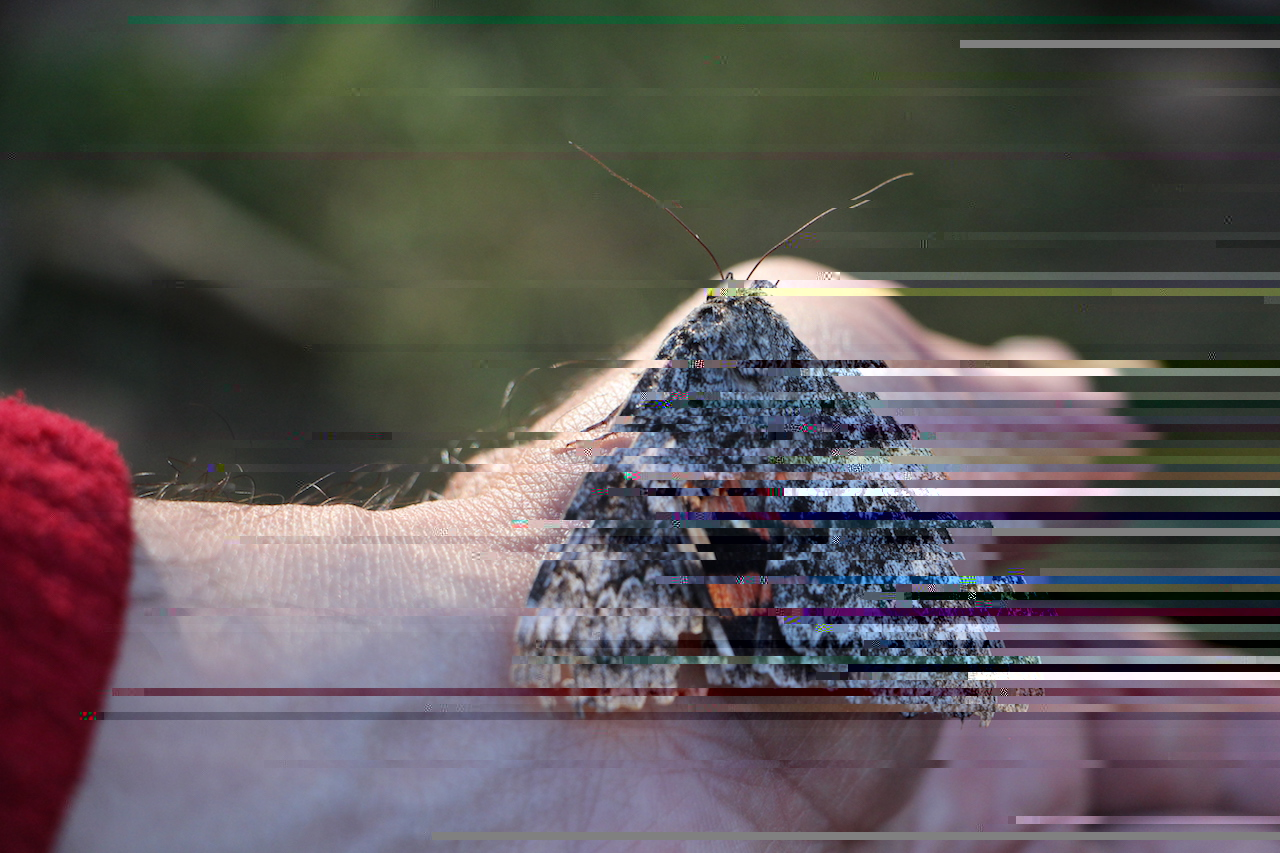
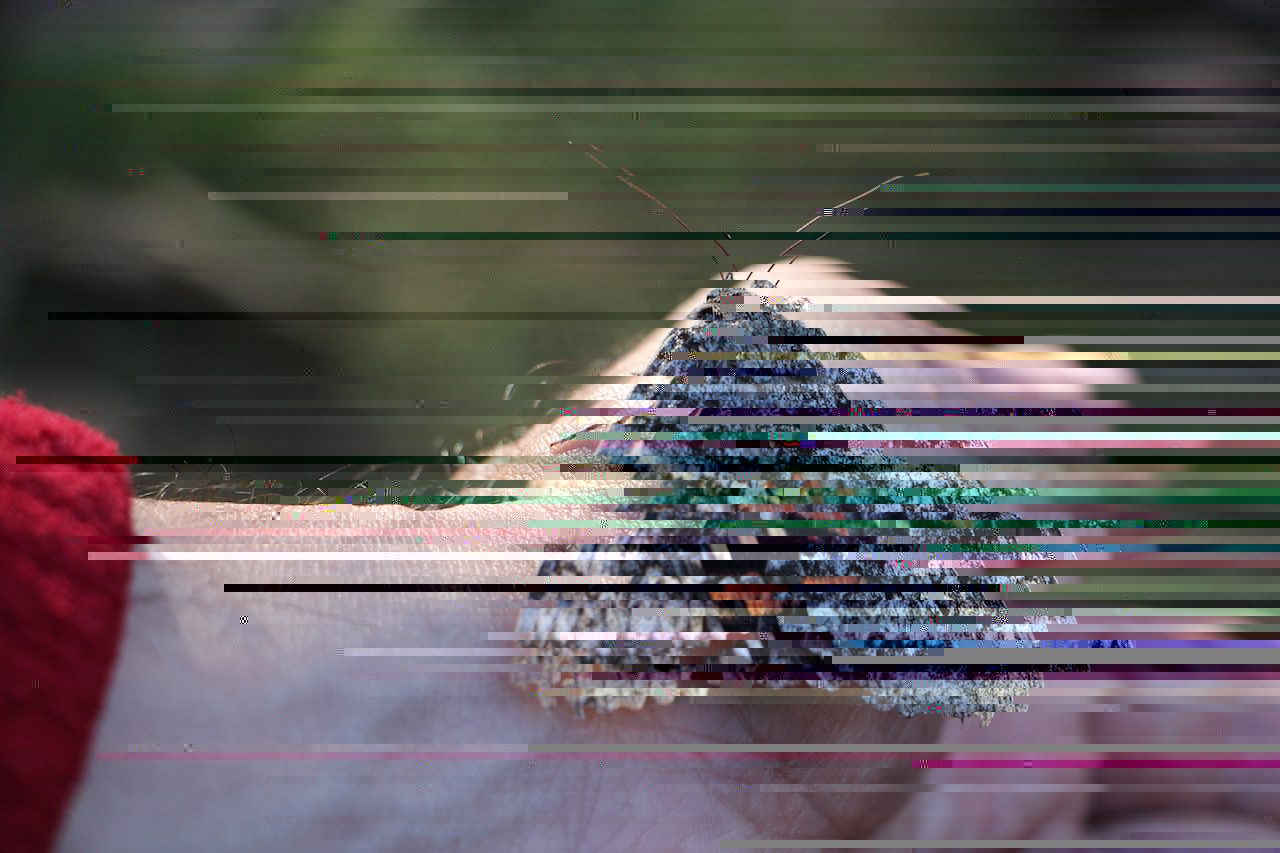
Recursive rewrite
Number of random trials massively decreased from O(N) to O(NP), where N is the total number of bytes and P is the probability of a single-bit error, which in most use cases is almost zero.

diff --git a/src/Corruptor.java b/src/Corruptor.java
@@ -8,9 +8,9 @@ import java.util.Random;
 public class Corruptor {
     private static final int BUFFER_SIZE = 4096; // 4KB
 
-    private static int[] globalBitErrorCounter = {0, 0, 0, 0, 0, 0, 0, 0, 0};
+    private int[] globalBitErrorCounter = {0, 0, 0, 0, 0, 0, 0, 0, 0};
 
-    private static int[] globalChosenBitCounter = {0, 0, 0, 0, 0, 0, 0, 0};
+    private int[] globalChosenBitCounter = {0, 0, 0, 0, 0, 0, 0, 0};
 
     private Random random;
 
@@ -20,8 +20,21 @@ public class Corruptor {
     }
 
     private double nonZeroSuccessInTrials(int trials, double probability) {
-        // fancy statistics stuff so that we can save some time by applying the randomness at the byte
-        // level rather than the bit level, all while retaining the same random distribution.
+        // this calculates the probability of no errors occurring in a sequence of <trial> bits each
+        // with an independent <probability> of error,
+
+        // in cases where the probability of an error is very low, we can use this test to batch together
+        // groups of bits rather than going one by one, vastly reducing processing time.
+
+        // we compare this probability to a random variable situated between 0 and 1.
+        // the test succeeds when the random variable is smaller than the calculated probability.
+
+        // if the test succeeds, we must corrupt at least one bit in the group.
+        // for the remaining bits, we must recursively apply this test
+
+        // if the test fails, no bit will be corrupted, and we can move on.
+
+        // below is the mathematical derivation of this function
 
         // B(success, trials) is a bernoulli random process describing a set of independent trials
         // B(success != 0, trials) = 1 - B(success = 0, trials)
@@ -31,6 +44,7 @@ public class Corruptor {
         return 1.0 - Math.pow(1.0 - probability, trials);
     }
 
+    /*
     public byte corruptByte(byte in, double probability) {
         // corrupt a byte
         // the set of bits we can choose to corrupt
@@ -65,7 +79,7 @@ public class Corruptor {
         return in;
     }
 
-    public byte[] corruptByteBuffer(byte[] in, double probability) {
+    public byte[] corruptBuffer(byte[] in, double probability) {
         // corrupt a buffer of bytes
         byte[] out = new byte[in.length];
         for(int i = 0; i < out.length; i++) {
@@ -85,7 +99,143 @@ public class Corruptor {
 
             while (inputStream.read(buffer) != -1) {
                 // apply buffer corruption over file
-                buffer = corruptByteBuffer(buffer, probability);
+                buffer = corruptBuffer(buffer, probability);
+                outputStream.write(buffer);
+            }
+            inputStream.close();
+            outputStream.close();
+
+        } catch (IOException ex) {
+            ex.printStackTrace();
+            System.exit(1);
+        }
+    }
+    */
+
+    private long bufferCounter = 0;
+
+    private byte[] buffer = new byte[BUFFER_SIZE];
+
+    private long[] globalChosenByteCounter = new long[BUFFER_SIZE];
+
+    private String pad(int length) {
+        String out = "";
+        for(int i = 0; i < length; i++) {
+            out = out + "│ ";
+        }
+        return out;
+    }
+
+    public void corruptBufferAt(int index, double probability) {
+        // this corrupts at least one bit at a given internal buffer location and iteratively attempts to
+        // corrupt further bits given a probability
+        globalChosenByteCounter[index]++;
+        // given a low probability, the vast majority of bytes will only have single bit errors
+        // these don't require a structure for making sure we don't corrupt the same bit twice
+        // we can check in advance if we need to corrupt an extra bit and only declare the structure
+        // if we actually need it
+        if(!(random.nextDouble() < nonZeroSuccessInTrials(7, probability))) {
+            // corrupt just one bit, simple
+            // choose a bit to corrupt
+            int chosenBit = random.nextInt(8);
+            // corrupt the byte by inverting the chosen bit
+            buffer[index] = (byte) (buffer[index] ^ (1 << chosenBit));
+            // increment error counters
+            globalChosenBitCounter[chosenBit]++;
+            globalBitErrorCounter[1]++;
+        } else {
+            // corrupt at least two bits, must setup some stuff
+            // the set of bits we can choose to corrupt
+            int[] uncorruptedBits = {0, 1, 2, 3, 4, 5, 6, 7};
+            // the number of bits left to be chosen
+            int remainingBits = 8;
+            // the number of trials to corrupt individual bits
+            int trials = 8;
+            // the number of bits that must be corrupted at least
+            int mustCorrupt = 2;
+            // an error counter
+            int localBitErrorCounter = 0;
+
+            while(trials > 0 && (mustCorrupt-- > 0 || random.nextDouble() < nonZeroSuccessInTrials(trials, probability))) {
+                // choose a bit to corrupt within those that remain
+                int chosenBitIndex = random.nextInt(remainingBits);
+                int chosenBit = uncorruptedBits[chosenBitIndex];
+                // remove that bit from the remaining choices
+                // (swap the last available bit with the one we chose and decrease the number of remaining bits)
+                uncorruptedBits[chosenBitIndex] = uncorruptedBits[--remainingBits];
+                // corrupt the byte by inverting the chosen bit
+                buffer[index] = (byte) (buffer[index] ^ (1 << chosenBit));
+                // decrement the number of trials remaining
+                trials--;
+                // increment error counter
+                localBitErrorCounter++;
+                globalChosenBitCounter[chosenBit]++;
+            }
+            // increment error counter according to the number of bit errors in that byte
+            globalBitErrorCounter[localBitErrorCounter]++;
+        }
+    }
+
+    public void corruptBufferRange(int from, int to, double probability) {
+        // this corrupts the internal buffer by recursively splitting it at random points when the corruption trial succeeds,
+        // similarly to quicksort.
+        if(from < to && random.nextDouble() < nonZeroSuccessInTrials((to - from + 1) * 8, probability)) {
+            // at least one bit corrupted in range
+            int split = random.nextInt(to - from + 1) + from;
+            // choose a split point and corrupt at least a bit from that byte
+            corruptBufferAt(split, probability);
+            // recur on the remaining part of the range
+            if(split == from) {
+                // special case, split occurred at beginning of range;
+                corruptBufferRange(from + 1, to, probability);
+            } else if (split == to) {
+                // special case, split occurred at end of range
+                corruptBufferRange(from, to - 1, probability);
+            } else {
+                // general case, split occurred at middle of range
+                corruptBufferRange(from, split - 1, probability);
+                corruptBufferRange(split + 1, to, probability);
+            }
+        } else if(from == to && random.nextDouble() < nonZeroSuccessInTrials( 8, probability)) {
+            // range contains a single byte
+            corruptBufferAt(from, probability);
+        } else {
+            globalBitErrorCounter[0] += to - from + 1;
+        }
+    }
+
+    public void corruptBuffer(double probability, int division) {
+        // corrupts the internal buffer
+        int split = 0;
+        for(int i = 0; i < division; i++) {
+            int temp = split;
+            split += BUFFER_SIZE / division;
+            if(i == division - 1) {
+                corruptBufferRange(temp, BUFFER_SIZE - 1, probability);
+            } else {
+                corruptBufferRange(temp, split - 1, probability);
+            }
+        }
+        //corruptBufferRange(0, BUFFER_SIZE - 1, probability);
+    }
+
+    public void corruptFile(String inputFile, String outputFile, double probability, int division) {
+        // corrupt an entire file
+        for(int i = 0; i < globalChosenByteCounter.length; i++) {
+            globalChosenByteCounter[i] = 0;
+        }
+        for(int i = 0; i < globalChosenBitCounter.length; i++) {
+            globalChosenBitCounter[i] = 0;
+        }
+        try (
+                InputStream inputStream = new FileInputStream(inputFile);
+                OutputStream outputStream = new FileOutputStream(outputFile);
+        ) {
+            bufferCounter = 0;
+            while (inputStream.read(buffer) != -1) {
+                // apply buffer corruption over file
+                corruptBuffer(probability, division);
+                bufferCounter++;
                 outputStream.write(buffer);
             }
             inputStream.close();
@@ -101,9 +251,17 @@ public class Corruptor {
         // print some stats about the way errors are distributed within bytes
         System.out.println("____________________________________");
         System.out.println("number of bit errors in same byte");
+        long totalBitErrors = 0;
+        long totalBits = 0;
         for(int i = 0; i < globalBitErrorCounter.length; i++) {
             System.out.println(i + "-bit errors: " + globalBitErrorCounter[i]);
+            totalBitErrors += i * globalBitErrorCounter[i];
+            totalBits += 8 * globalBitErrorCounter[i];
         }
+        double probability = totalBitErrors / (1.0 * totalBits);
+        System.out.println("____________________________________");
+        System.out.println("total bits corrupted: " + totalBitErrors + " of " + totalBits);
+        System.out.println("measured probability: " + probability);
     }
 
     public void printChosenBits() {
@@ -115,25 +273,13 @@ public class Corruptor {
         }
     }
 
-    public double entropyByteBuffer(byte[] in) {
-        // calculate a buffer's entropy.
-        // can't be used to calculate a file's entropy by splitting it into buffers because entropy isn't linear
-        int[] byteOccurence = new int[256];
-        for(int i = 0; i < byteOccurence.length; i++) {
-            byteOccurence[i] = 0;
+    public void printChosenBytes() {
+        // print some stats about which bytes were chosen to be corrupted
+        System.out.println("____________________________________");
+        System.out.println("byte chosen for error");
+        for(int i = 0; i < globalChosenByteCounter.length; i++) {
+            System.out.println("byte-" + i + " errors: " + globalChosenByteCounter[i]);
         }
-        for(int i = 0; i < in.length; i++) {
-            byteOccurence[in[i] + 128]++;
-        }
-        double entropy = 0;
-        for(int i = 0; i < byteOccurence.length; i++) {
-            if(byteOccurence[i] != 0) {
-                // avoid log(0)
-                double probability = (byteOccurence[i] * 1.0) / (in.length * 1.0);
-                entropy -= probability * Math.log(probability);
-            }
-        }
-        return entropy;
     }
 
     public double entropyFile(String inputFile) {
@@ -141,7 +287,6 @@ public class Corruptor {
         try (
                 InputStream inputStream = new FileInputStream(inputFile);
         ) {
-            byte[] buffer = new byte[BUFFER_SIZE];
             long byteCount = 0;
             long[] byteOccurence = new long[256];
             for(int i = 0; i < byteOccurence.length; i++) {
@@ -173,27 +318,50 @@ public class Corruptor {
         }
     }
 
+    // something is wrong with probabilities.
+    //
+    // given    -> measured
+    // 0.1      -> 0.18
+    // 0.01     -> 0.022
+    // 0.001    -> 0.0023
+    // 0.0001   -> 0.00022
+    // 0.00001  -> 0.000011
+    // 0.000001 -> 0.0000011
+    //
+    // this effect is reduced by subdividing buffers.
+    // this effect is not increased further past a certain buffer size.
+    // this effect seems independent of file size.
+    //
+    // maybe this just has to do with numerical accuracy of pow and random.
+    // -> unlikely. verified with BigDecimal nonZeroSuccessesInTrials
+    //
+    // maybe this is a subtle error in recursion that compounds over higher probabilities.
+    // -> unlikely. all edge cases have been thoroughly verified by observing the call hierarchy
+
     public static void main(String[] args) {
         // create the corruptor and give it a seed
         // the seed determines the exact bits that will be corrupted in the file
-        // running the program twice with the same settings will yeild the same results
+        // running the program twice with the same settings will yield the same results
 
         // the nerdy consequence of this and the fact we used bit inversion to create errors
-        // is that this program is able to un-corrupt a file by putting in exacly the same parameters
+        // is that this program is able to un-corrupt a file by putting in exactly the same parameters
 
         Corruptor corruptor = new Corruptor(0);
 
         // this is just setup so that all input files are named in.<typeFile> and out.<typeFile>
         String typeFile = "jpg";
         // set the probability of error for each bit
-        double probability = 1.0 / 100000.0;
+        double probability = 0.0001;
+        // subdivision of buffers
+        int division = 1;
         // do the corruption!
         System.out.println("____________________________________");
         System.out.println("running");
-        corruptor.corruptFile("in." + typeFile, "out." + typeFile, probability);
+        corruptor.corruptFile("in." + typeFile, "out." + typeFile, probability, division);
         System.out.println("____________________________________");
         System.out.println("done");
         // some sweet statistics
+        //corruptor.printChosenBytes();
         corruptor.printChosenBits();
         corruptor.printErrors();
 
